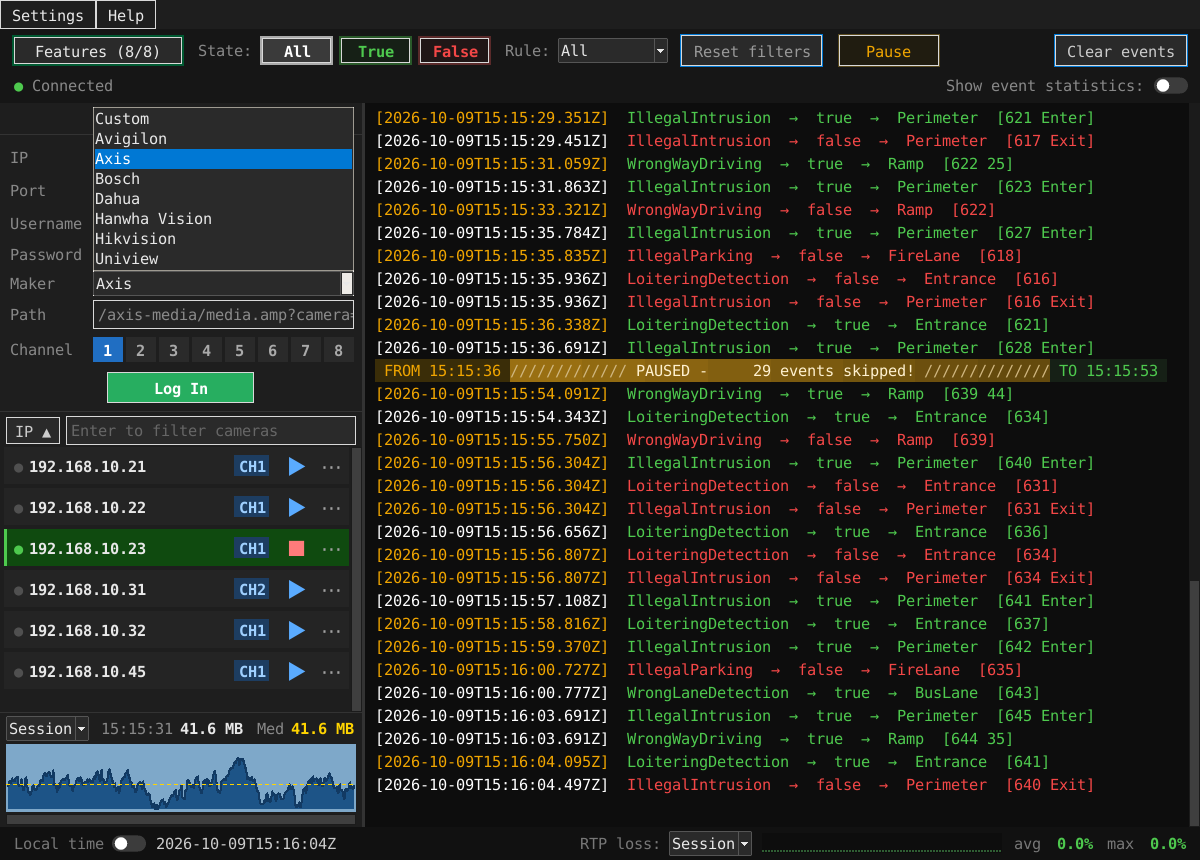
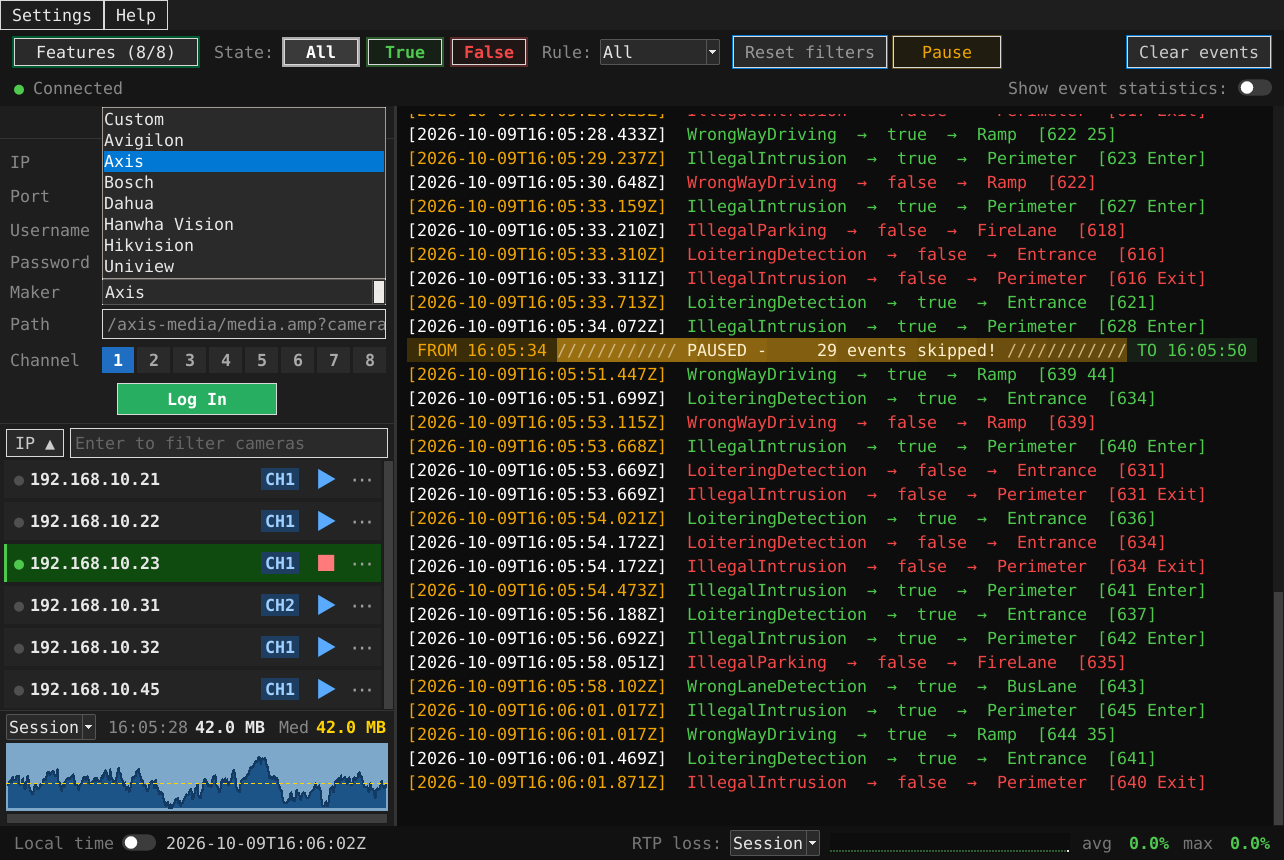
Site: screenshots and tutorial GIFs at the new default text size

diff --git a/index.html b/index.html
@@ -345,7 +345,7 @@ const DEMO_VIDEO = "media/demo.mp4";
 const DEMO_POSTER = "media/demo.jpg";
 // The screenshots' revision: tools/demo_screenshots.py sets it when it saves new
 // ones, so browsers and the Pages CDN fetch them again instead of a cached copy.
-const MEDIA_REV = "202610091516";
+const MEDIA_REV = "202610091606";
 const SCREENSHOTS = [
   ["media/screenshot-1.png", "Main window after 30 hours: cameras, live event log, memory and RTP loss"],
   ["media/screenshot-2.png", "Choose the camera's maker: the path of its metadata stream is filled in"],
